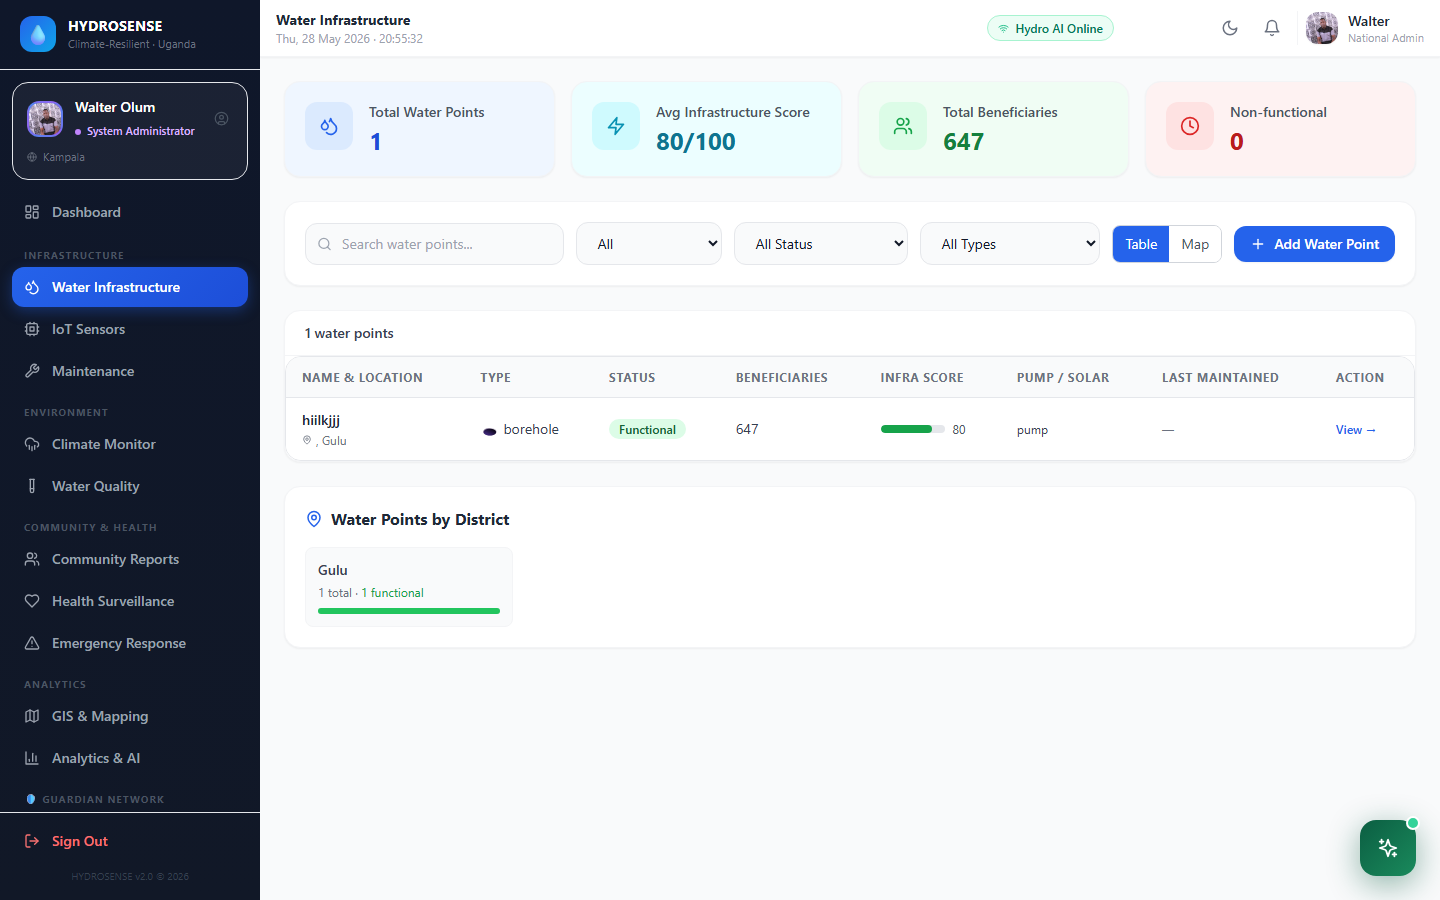
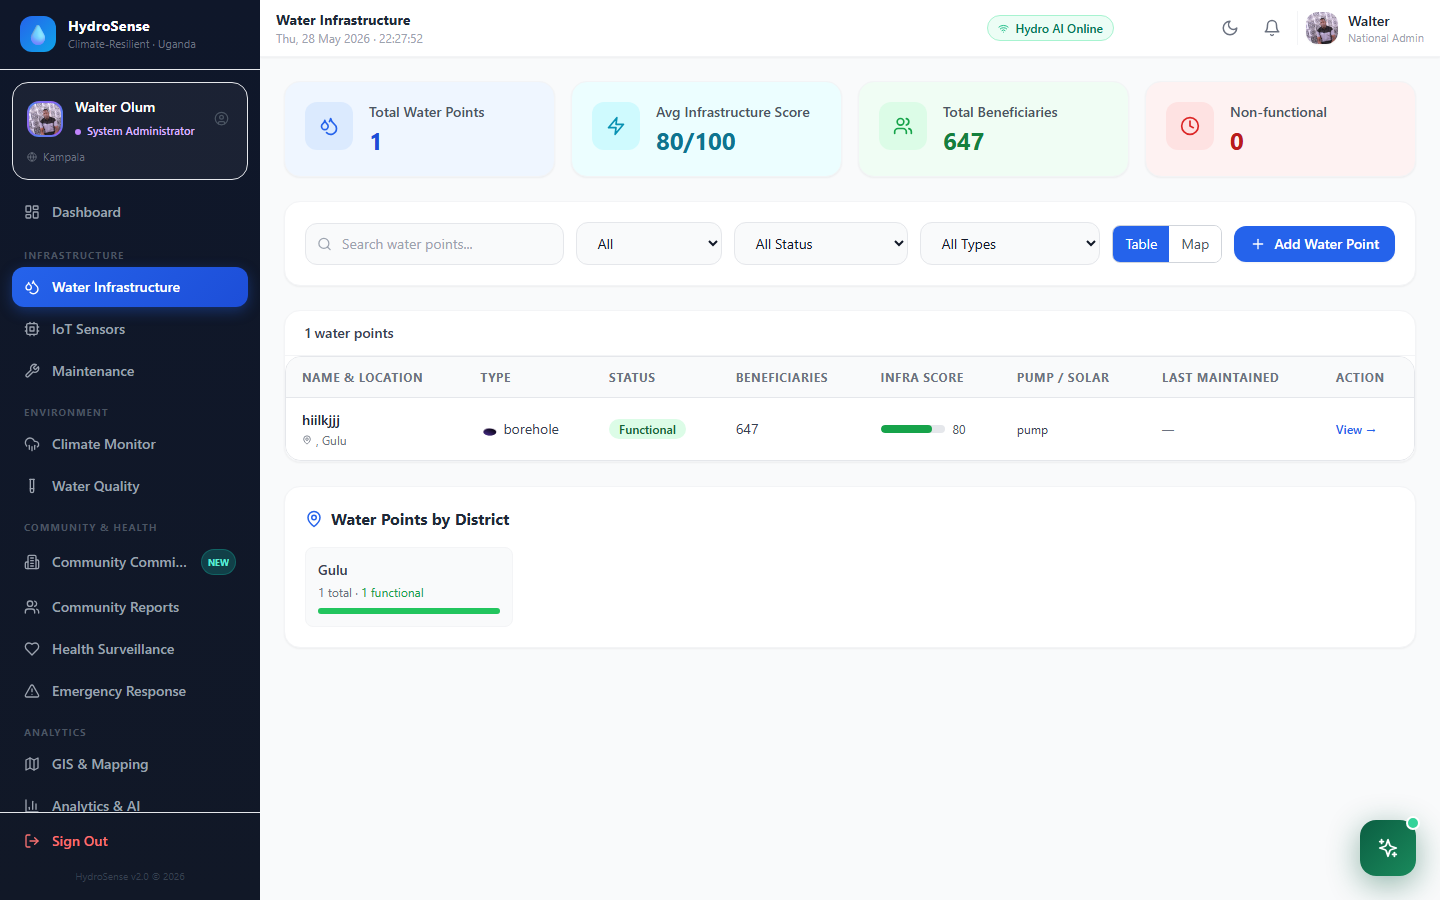
docs: refresh screenshots and add Community Committee Management screenshot

diff --git a/README.md b/README.md
@@ -258,6 +258,9 @@ The app will be available at http://localhost:5173
 ### AI Intelligence Hub
 ![AI Hub](screenshots/12-ai-hub.png)
 
+### Community Committee Management
+![Community Committee Management](screenshots/13-committee-management.png)
+
 ---
 
 ## 👨💻 Author
